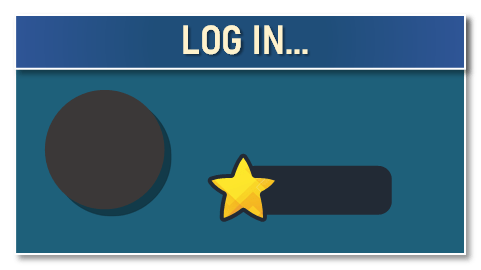
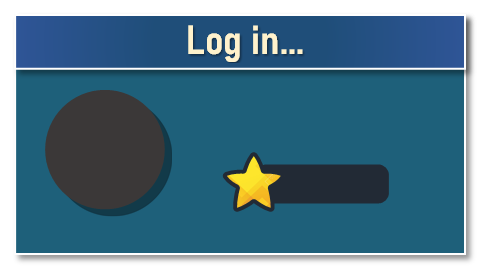
123

Changed region(s): [[0.4366, 0.563, 0.842, 0.8296], [0.3742, 0.0889, 0.6549, 0.237]]

diff --git a/index.js b/index.js
@@ -15,7 +15,7 @@ const SHADOW_SHIFT=3;
 const SHADOW_DISP_XY={'0':[3,3],'90':[3,-3],'-90':[-3,3],'180':[-3,-3]}
 const TM={s:0,ms:0}
 
-const COM_URL='https://akukamil.github.io/common'
+const COM_URL='https://akukamil.github.io/com'
 
 my_log={
 	log_arr:[],
@@ -26,26 +26,6 @@ my_log={
 	}
 
 };
-
-hf={
-	
-	randIntInc(min,max){
-		min = Math.ceil(min)
-		max = Math.floor(max)
-		return Math.floor(Math.random() * (max - min + 1) + min)
-	},
-
-	hash(s){
-		
-		let h = 0;
-		for (let i = 0; i < s.length; i++) {
-			h = (h << 5) - h + s.charCodeAt(i)
-			h |= 0
-		}
-		return h
-	}	
-	
-}
 
 SKINS_DATA={
 	0:{tint:0x262626,rating:0,games:0},
@@ -413,12 +393,6 @@ my_log={
 
 };
 
-irnd = function(min,max) {
-    min = Math.ceil(min);
-    max = Math.floor(max);
-    return Math.floor(Math.random() * (max - min + 1)) + min;
-}
-
 class domino_class extends PIXI.Container{
 
 	constructor(is_skin){
@@ -619,14 +593,14 @@ class player_mini_card_class extends PIXI.Container {
 		this.avatar_frame.width=this.avatar_frame.height=81.48;
 
 		this.name="";
-		this.name_text=new PIXI.BitmapText('', {fontName: 'mfont',fontSize: 22,align: 'center'});
+		this.name_text=new PIXI.BitmapText('', {fontName: 'bahnschrift48',fontSize: 22,align: 'center'});
 		this.name_text.anchor.set(1,0);
 		this.name_text.x=180;
 		this.name_text.y=20;
 		this.name_text.tint=0xffffff;
 
 		this.rating=0;
-		this.rating_text=new PIXI.BitmapText('', {fontName: 'mfont',fontSize: 30,align: 'center'});
+		this.rating_text=new PIXI.BitmapText('', {fontName: 'bahnschrift48',fontSize: 30,align: 'center'});
 		this.rating_text.tint=0xffff00;
 		this.rating_text.anchor.set(1,0.5);
 		this.rating_text.x=180;
@@ -657,19 +631,19 @@ class player_mini_card_class extends PIXI.Container {
 		this.avatar2_frame.y=this.avatar2.y-11.64;
 		this.avatar2_frame.width=this.avatar2_frame.height=81.48;
 
-		this.t_country=new PIXI.BitmapText('', {fontName: 'mfont',fontSize: 25,align: 'center'});
+		this.t_country=new PIXI.BitmapText('', {fontName: 'bahnschrift48',fontSize: 25,align: 'center'});
 		this.t_country.anchor.set(1,0.5);
 		this.t_country.x=100;
 		this.t_country.y=60;
 		this.t_country.tint=0xFFE699;
 
-		this.rating_text1=new PIXI.BitmapText('', {fontName: 'mfont',fontSize: 24,align: 'center'});
+		this.rating_text1=new PIXI.BitmapText('', {fontName: 'bahnschrift48',fontSize: 24,align: 'center'});
 		this.rating_text1.tint=0xffff00;
 		this.rating_text1.anchor.set(0.5,0);
 		this.rating_text1.x=48.1;
 		this.rating_text1.y=56;
 
-		this.rating_text2=new PIXI.BitmapText('', {fontName: 'mfont',fontSize: 24,align: 'center'});
+		this.rating_text2=new PIXI.BitmapText('', {fontName: 'bahnschrift48',fontSize: 24,align: 'center'});
 		this.rating_text2.tint=0xffff00;
 		this.rating_text2.anchor.set(0.5,0);
 		this.rating_text2.x=150.1;
@@ -695,7 +669,7 @@ class lb_player_card_class extends PIXI.Container{
 		this.bcg.width = 370;
 		this.bcg.height = 70;
 
-		this.place=new PIXI.BitmapText('', {fontName: 'mfont',fontSize: 25,align: 'center'});
+		this.place=new PIXI.BitmapText('', {fontName: 'bahnschrift48',fontSize: 25,align: 'center'});
 		this.place.tint=0xffffff;
 		this.place.x=20;
 		this.place.y=22;
@@ -707,12 +681,12 @@ class lb_player_card_class extends PIXI.Container{
 		this.avatar.width=this.avatar.height=44
 
 
-		this.name=new PIXI.BitmapText('', {fontName: 'mfont',fontSize: 23,align: 'center'})
+		this.name=new PIXI.BitmapText('', {fontName: 'bahnschrift48',fontSize: 23,align: 'center'})
 		this.name.tint=0xcceeff
 		this.name.x=95
 		this.name.y=22
 
-		this.rating=new PIXI.BitmapText('', {fontName: 'mfont',fontSize: 25,align: 'center'})
+		this.rating=new PIXI.BitmapText('', {fontName: 'bahnschrift48',fontSize: 25,align: 'center'})
 		this.rating.x=305
 		this.rating.tint=0xFFFF00
 		this.rating.y=22
@@ -754,7 +728,7 @@ class chat_record_class extends PIXI.Container {
 		this.avatar_frame.x=this.avatar.x-10;
 		this.avatar_frame.y=this.avatar.y-10;
 
-		this.name = new PIXI.BitmapText('Имя Фамил', {fontName: 'mfont',fontSize: 17});
+		this.name = new PIXI.BitmapText('Имя Фамил', {fontName: 'bahnschrift48',fontSize: 17});
 		this.name.anchor.set(0,0.5);
 		this.name.x=this.avatar.x+72;
 		this.name.y=this.avatar.y-1;
@@ -780,14 +754,14 @@ class chat_record_class extends PIXI.Container {
 		this.msg_bcg.x=this.avatar.x+45;
 		this.msg_bcg.y=this.avatar.y+2;
 
-		this.msg = new PIXI.BitmapText('Имя Фамил', {fontName: 'mfont',fontSize: 19,lineSpacing:55,align: 'left'});
+		this.msg = new PIXI.BitmapText('Имя Фамил', {fontName: 'bahnschrift48',fontSize: 19,lineSpacing:45,align: 'left'});
 		this.msg.x=this.avatar.x+75;
 		this.msg.y=this.avatar.y+30;
 		this.msg.maxWidth=450;
 		this.msg.anchor.set(0,0.5);
 		this.msg.tint = 0xffffff;
 
-		this.msg_tm = new PIXI.BitmapText('28.11.22 12:31', {fontName: 'mfont',fontSize: 15});
+		this.msg_tm = new PIXI.BitmapText('28.11.22 12:31', {fontName: 'bahnschrift48',fontSize: 15});
 		this.msg_tm.tint=0x999999;
 		this.msg_tm.anchor.set(1,0);
 
@@ -922,11 +896,11 @@ class feedback_record_class extends PIXI.Container {
 	constructor() {
 
 		super();
-		this.text=new PIXI.BitmapText('...', {lineSpacing:46,fontName: 'mfont',fontSize: 19,align: 'left'});
+		this.text=new PIXI.BitmapText('...', {lineSpacing:46,fontName: 'bahnschrift48',fontSize: 19,align: 'left'});
 		this.text.maxWidth=290;
 		this.text.tint=0xEEEEEE;
 
-		this.name_text=new PIXI.BitmapText('', {fontName: 'mfont',fontSize: 19,align: 'left'});
+		this.name_text=new PIXI.BitmapText('', {fontName: 'bahnschrift48',fontSize: 19,align: 'left'});
 		this.name_text.tint=0xFFFF00;
 
 
@@ -980,7 +954,7 @@ class slider_class extends PIXI.Container{
 		this.frame.height=70
 		if (invert) this.frame.scale_y*=-1
 
-		this.t_score=new PIXI.BitmapText('', {fontName: 'mfont',fontSize: 25,align: 'center'})
+		this.t_score=new PIXI.BitmapText('', {fontName: 'bahnschrift48',fontSize: 25,align: 'center'})
 		this.t_score.anchor.set(0,0.5)
 		this.t_score.tint=0xffffff
 		this.t_score.x=30
@@ -2160,7 +2134,7 @@ bot={
 		my_data.win_rating = my_data.rating
 		
 		opponent=this
-		game.activate(this,irnd(1,9999),0)
+		game.activate(this,hf.randIntInc(1,9999),0)
 		
 		objects.timer_text.text='---'		
 		objects.timer_cont.visible=true
@@ -3622,7 +3596,7 @@ pref={
 		objects.pref_crystals_info.text=my_data.crystals
 		objects.pref_energy_info.text=my_data.energy
 		
-		this.avatar_switch_center=this.avatar_swtich_cur=irnd(9999,999999)
+		this.avatar_switch_center=this.avatar_swtich_cur=hf.randIntInc(9999,999999)
 
 		//обновляем кнопки
 		this.update_buttons()
@@ -4416,7 +4390,7 @@ players_cache={
 
 		while(Object.keys(this.loading).length>5){
 			console.log('Много загрузок, ждем...')
-			await new Promise(r => setTimeout(r, irnd(400,800)));
+			await new Promise(r => setTimeout(r, hf.randIntInc(400,800)));
 		}
 
 		this.loading[uid]=1
@@ -4491,18 +4465,31 @@ players_cache={
 
 	},
 
-	async my_texture_from(pic_url){
+	my_texture_from(pic_url){
 
-		if(!pic_url) return PIXI.Texture.WHITE
+		const white_tex = PIXI.Texture.WHITE;
+
+		if (!pic_url) return white_tex
 		
-		//если это мультиаватар
-		if(pic_url.includes('mavatar')) pic_url=multiavatar(pic_url);
+		// Handle multiavatar
+		if (pic_url.includes('mavatar')) pic_url = multiavatar(pic_url)
+		
+		return new Promise(res => {
+			const timeout = setTimeout(() => {
+			console.log('Timeout to load: ', pic_url);
+			res(white_tex);
+		}, 3000);
 
-		try{
-			return await PIXI.Texture.fromURL(pic_url);
-		}catch(er){
-			return PIXI.Texture.WHITE;
-		}
+		PIXI.Texture.fromURL(pic_url).then(t => {
+				clearTimeout(timeout);
+				res(t||white_tex);
+			})
+			.catch((error) => {
+				clearTimeout(timeout);
+				console.error('Failed to load texture:', error);
+				res(white_tex);
+			});
+		});
 
 	},
 
@@ -4591,8 +4578,8 @@ req_dialog = {
 		IAM_CALLED=0
 
 		//отправляем информацию о согласии играть с идентификатором игры и сидом
-		game_id=irnd(1,9999)
-		const seed = irnd(1,999999)
+		game_id=hf.randIntInc(1,9999)
+		const seed = hf.randIntInc(1,999999)
 		fbs.ref('inbox/'+opp_data.uid).set({sender:my_data.uid,message:'ACCEPT',tm:Date.now(),game_id,seed})
 		
 		main_menu.close()
@@ -6389,7 +6376,7 @@ auth2={
 	get_random_char() {
 
 		const chars = '0123456789ABCDEFGHIJKLMNOPQRSTUVWXYZabcdefghijklmnopqrstuvwxyz';
-		return chars[irnd(0,chars.length-1)];
+		return chars[hf.randIntInc(0,chars.length-1)];
 
 	},
 
@@ -6422,8 +6409,8 @@ auth2={
 
 		} else {
 
-			let rnd_num = irnd(0, rnd_names.length - 1);
-			let rand_uid = irnd(0, 999999)+ 100;
+			let rnd_num = hf.randIntInc(0, rnd_names.length - 1);
+			let rand_uid = hf.randIntInc(0, 999999)+ 100;
 			let name_postfix = rand_uid.toString().substring(0, 3);
 			let name =	rnd_names[rnd_num] + name_postfix;
 			return name;
@@ -6879,7 +6866,7 @@ main_loader={
 		else
 			loader.add('game_title', git_src+'res/'+'common/game_title_eng.png');
 
-		loader.add('mfont2',git_src+'fonts/Bahnschrift/font.fnt');
+		loader.add('1',COM_URL+'/fonts/bahnschrift48/f.fnt');
 		loader.add('bcg',git_src+'bcg.jpg');
 
 		//добавляем основной загрузочный манифест
@@ -6928,7 +6915,7 @@ main_loader={
 		loader_bar_progress.height=50;
 		loader_bar_progress.mask=objects.loader_progress_mask;
 
-		objects.t_loader_progress=new PIXI.BitmapText('',{fontName: 'mfont',fontSize: 22});
+		objects.t_loader_progress=new PIXI.BitmapText('',{fontName: 'bahnschrift48',fontSize: 22});
 		objects.t_loader_progress.anchor.set(0.5,0.5);
 		objects.t_loader_progress.x=400;
 		objects.t_loader_progress.y=385;
@@ -6959,8 +6946,6 @@ main_loader={
 		for (let i = 0; i < load_list.length; i++)
 			if (load_list[i].class==='sprite' || load_list[i].class==='image')
 				loader.add(load_list[i].name, git_src+`res/${lang_pack}/` + load_list[i].name + "." +  load_list[i].image_format);
-
-		loader.add("m2_font", git_src+"fonts/Bahnschrift/font.fnt");
 
 		loader.add('music',git_src+'sounds/music.mp3');
 
@@ -7159,7 +7144,7 @@ async function init_game_env(lang) {
 	window.addEventListener("resize", resize);
 
 	//идентификатор клиента
-	client_id = irnd(10,999999);
+	client_id = hf.randIntInc(10,999999);
 
 	//загружаем
 	await main_loader.load1()
@@ -7187,9 +7172,6 @@ async function init_game_env(lang) {
 	});
 	window.addEventListener('keydown', function(event) { keyboard.keydown(event.key)});
 
-	//загрузка сокета
-	objects.id_log.text='Загрузка библиотеки my_ws...'
-	await auth2.load_script('https://akukamil.github.io/common/my_ws.js')
 	
 	//подключение сокета
 	objects.id_log.text='Подключение к серверу my_ws...'

diff --git a/index.html b/index.html
@@ -1,6 +1,7 @@
 <!DOCTYPE html>
 <html>
  <meta name="http-equiv" content="Content-type: text/html; charset=windows-1251">
+ <link rel="icon" href="data:,">
 <style>
 html, body {
     margin: 0;
@@ -105,10 +106,10 @@ body {
 
 <script src="https://www.gstatic.com/firebasejs/10.11.1/firebase-app-compat.js"></script>
 <script src="https://www.gstatic.com/firebasejs/10.11.1/firebase-database-compat.js"></script>
-<script src="https://mtcom.website.yandexcloud.net/pixi_scale.min.js" ></script>
-<script src="https://mtcom.website.yandexcloud.net/pixi-sound.js"></script>
-<script src="https://mtcom.website.yandexcloud.net/my_ws.js"></script>
-<script src="https://mtcom.website.yandexcloud.net/multiavatar.min.js"></script>
+<script src="https://akukamil.github.io/com/pixi_scale.min.js" ></script>
+<script src="https://akukamil.github.io/com/pixi-sound.js"></script>
+<script src="https://akukamil.github.io/com/my_ws.js"></script>
+<script src="https://akukamil.github.io/com/multiavatar.min.js"></script>
 <script src="index.js" charset="utf-8"></script>
  
 <body onload="init_game_env()">